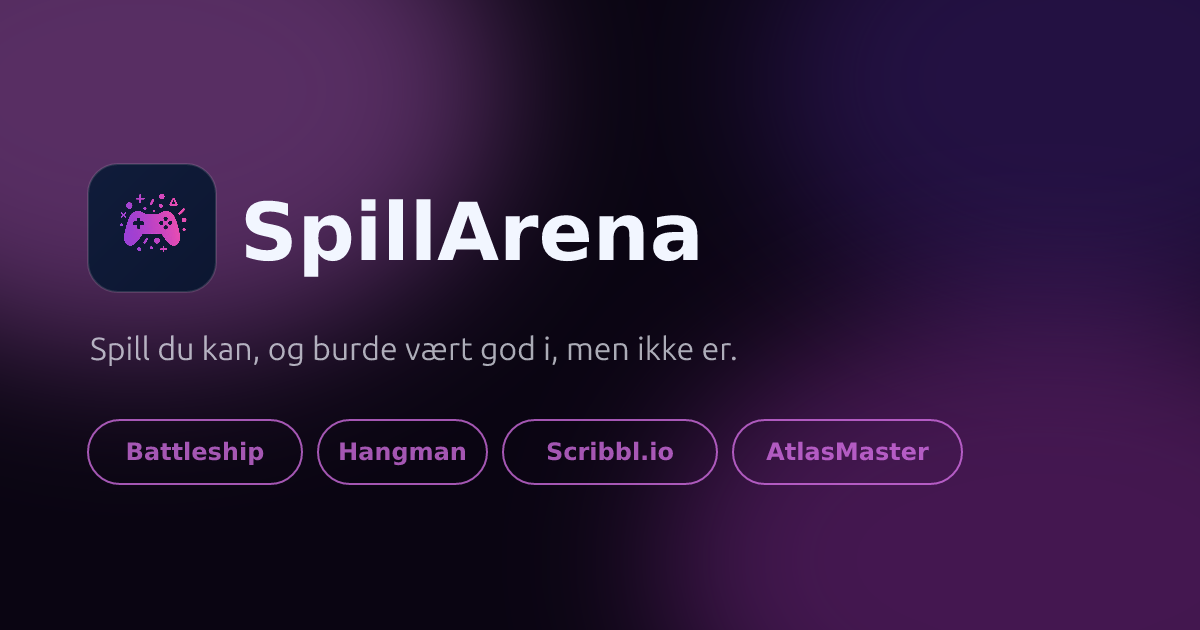
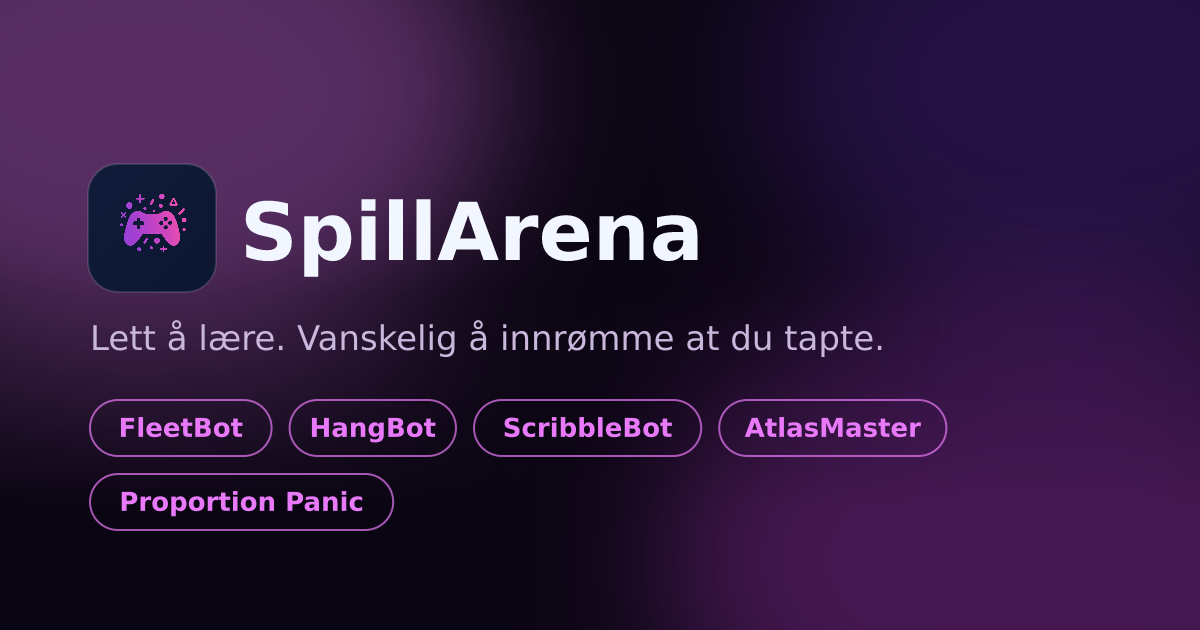
feat: Update meta tags and localization for improved SEO and user experience

Changed region(s): [[0.0617, 0.6333, 0.8017, 0.8444], [0.0617, 0.5127, 0.74, 0.573]]

diff --git a/index.html b/index.html
@@ -6,11 +6,11 @@
   <meta name="viewport" content="width=device-width, initial-scale=1.0" />
 
   <!-- Primary meta -->
-  <title>SpillArena - Spill du kan, og burde vært god i, men ikke er</title>
+  <title>SpillArena – Lett å lære. Vanskelig å innrømme at du tapte.</title>
   <meta name="description"
-    content="Spill du kan, og burde vært god i, men ikke er. SpillArena er en samling nettleserbaserte spill med bots - Battleship, Hangman, Scribbl.io, AtlasMaster og Proportion Panic, gratis i nettleseren." />
+    content="Lett å lære. Vanskelig å innrømme at du tapte. Fem gratis nettleserspill - FleetBot, HangBot, ScribbleBot, AtlasMaster og Proportion Panic. Ingen konto, ingen reklame." />
   <meta name="keywords"
-    content="SpillArena, Spill Arena, spill, spill på nett, nettspill, nettleserspill, browser games, online games, gratis spill, gratis nettspill, free games, spill uten registrering, spill uten konto, spill mot bot, bots, FleetBot, battleship, senk slagskipet, skipsspill, HangBot, hangman, galgen, gjett ordet, ordspill, ScribbleBot, scribbl.io, tegn og gjett, tegnespill, pictionary, AtlasMaster, geografiquiz, kartspill, quiz om Europa, quiz om Asia, quiz om Afrika, quiz om Sør-Amerika, quiz om USA, quiz om Norge, land og hovedsteder, fylker og byer, elver og fjelltopper, Proportion Panic, størrelsesspill, gjett størrelsen, skala, dagens utfordring, daily challenge" />
+    content="SpillArena, Spill Arena, spill, spill på nett, nettspill, nettleserspill, browser games, online games, gratis spill, gratis nettspill, free games, spill uten registrering, spill uten konto, spill uten nedlasting, spill i pausen, kjappe spill, kjapt spill, 5 minutter spill, spill mot bot, spill mot kunstig intelligens, spill mot AI, bots, arkadespill, arkadespill på nett, gratis arkade, spillside, spillnettsted, casual games, no download games, no signup games, instant play games, quick browser games, single player games, play alone online, FleetBot, battleship, battleship online, battleship online gratis, senk slagskipet, senk slagskipet på nett, skipsspill, HangBot, hangman, hangman online, hangman norsk, galgen, galgen spill, gjett ordet, ordspill, ordspill på nett, ScribbleBot, scribbl.io, tegn og gjett, tegnespill, pictionary, pictionary online, pictionary mot bot, drawing and guessing game, AtlasMaster, geografiquiz, geografispill, kartspill, landquiz, hovedstadsquiz, land og hovedsteder, fylker og byer, elver og fjelltopper, quiz om Europa, quiz om Asia, quiz om Afrika, quiz om Sør-Amerika, quiz om USA, quiz om Norge, geography quiz game, Proportion Panic, størrelsesspill, størrelsesquiz, estimeringsspill, gjett størrelsen, skala, guess the size game, dagens utfordring, daily challenge" />
   <meta name="author" content="Emil Berglund" />
   <link rel="canonical" href="https://spillarena.no/" />
 
@@ -18,9 +18,9 @@
   <meta property="og:type" content="website" />
   <meta property="og:url" content="https://spillarena.no/" />
   <meta property="og:site_name" content="SpillArena" />
-  <meta property="og:title" content="SpillArena - Spill du kan, og burde vært god i, men ikke er" />
+  <meta property="og:title" content="SpillArena – Lett å lære. Vanskelig å innrømme at du tapte." />
   <meta property="og:description"
-    content="Spill du kan, og burde vært god i, men ikke er. Battleship, Hangman, Scribbl.io, AtlasMaster og Proportion Panic - gratis i nettleseren." />
+    content="Lett å lære. Vanskelig å innrømme at du tapte. FleetBot, HangBot, ScribbleBot, AtlasMaster og Proportion Panic - gratis i nettleseren." />
   <meta property="og:image" content="https://spillarena.no/og-image.png" />
   <meta property="og:image:width" content="1200" />
   <meta property="og:image:height" content="630" />
@@ -29,9 +29,9 @@
 
   <!-- Twitter Card -->
   <meta name="twitter:card" content="summary_large_image" />
-  <meta name="twitter:title" content="SpillArena - Spill du kan, og burde vært god i, men ikke er" />
+  <meta name="twitter:title" content="SpillArena – Lett å lære. Vanskelig å innrømme at du tapte." />
   <meta name="twitter:description"
-    content="Spill du kan, og burde vært god i, men ikke er. Gratis i nettleseren." />
+    content="Lett å lære. Vanskelig å innrømme at du tapte. Gratis i nettleseren." />
   <meta name="twitter:image" content="https://spillarena.no/og-image.png" />
 
   <!-- Favicon -->
@@ -45,7 +45,7 @@
       "@type": "WebSite",
       "name": "SpillArena",
       "url": "https://spillarena.no/",
-      "description": "Spill du kan, og burde vært god i, men ikke er. En samling av nettleserbaserte spill med bots.",
+      "description": "Lett å lære. Vanskelig å innrømme at du tapte. En samling av nettleserbaserte spill med bots.",
       "inLanguage": ["no", "en"],
       "author": {
         "@type": "Person",
@@ -57,6 +57,50 @@
         "target": "https://spillarena.no/?q={search_term_string}",
         "query-input": "required name=search_term_string"
       }
+    }
+    </script>
+  <script type="application/ld+json">
+    {
+      "@context": "https://schema.org",
+      "@type": "ItemList",
+      "name": "Spill på SpillArena",
+      "itemListElement": [
+        {
+          "@type": "ListItem",
+          "position": 1,
+          "url": "https://spillarena.no/fleetbot",
+          "name": "FleetBot",
+          "description": "Battleship - plasser skipene dine og senk motstanderens flåte."
+        },
+        {
+          "@type": "ListItem",
+          "position": 2,
+          "url": "https://spillarena.no/hangbot",
+          "name": "HangBot",
+          "description": "Hangman - gjett bokstavene riktig før det er for sent."
+        },
+        {
+          "@type": "ListItem",
+          "position": 3,
+          "url": "https://spillarena.no/scribblebot",
+          "name": "ScribbleBot",
+          "description": "Scribbl.io - der roboten tegner og du gjetter ordet."
+        },
+        {
+          "@type": "ListItem",
+          "position": 4,
+          "url": "https://spillarena.no/atlasmaster",
+          "name": "AtlasMaster",
+          "description": "Geografiquiz om Europa, Asia, Afrika, Sør-Amerika, USA og Norge."
+        },
+        {
+          "@type": "ListItem",
+          "position": 5,
+          "url": "https://spillarena.no/proportionpanic",
+          "name": "Proportion Panic",
+          "description": "Gjett hvor store ting egentlig er før panikktiden renner ut."
+        }
+      ]
     }
     </script>
 </head>
